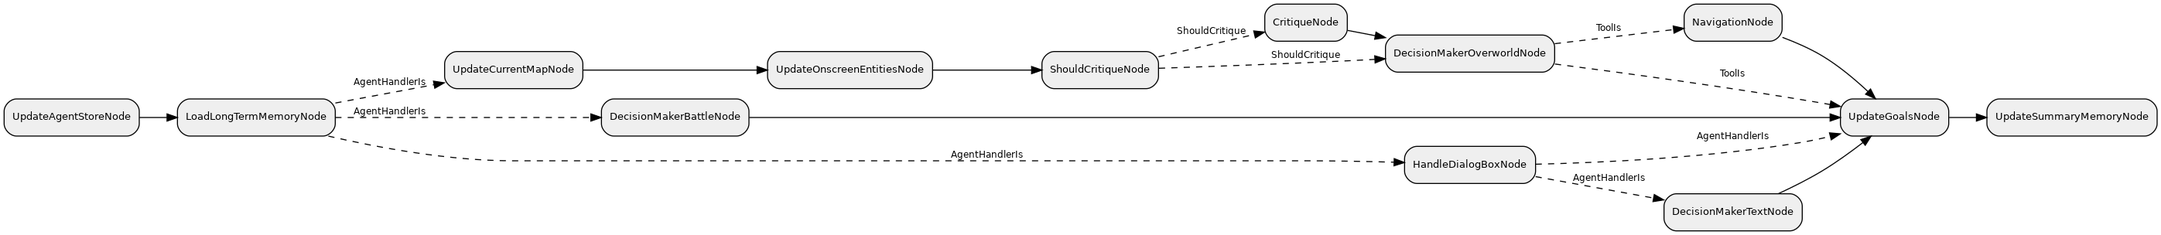
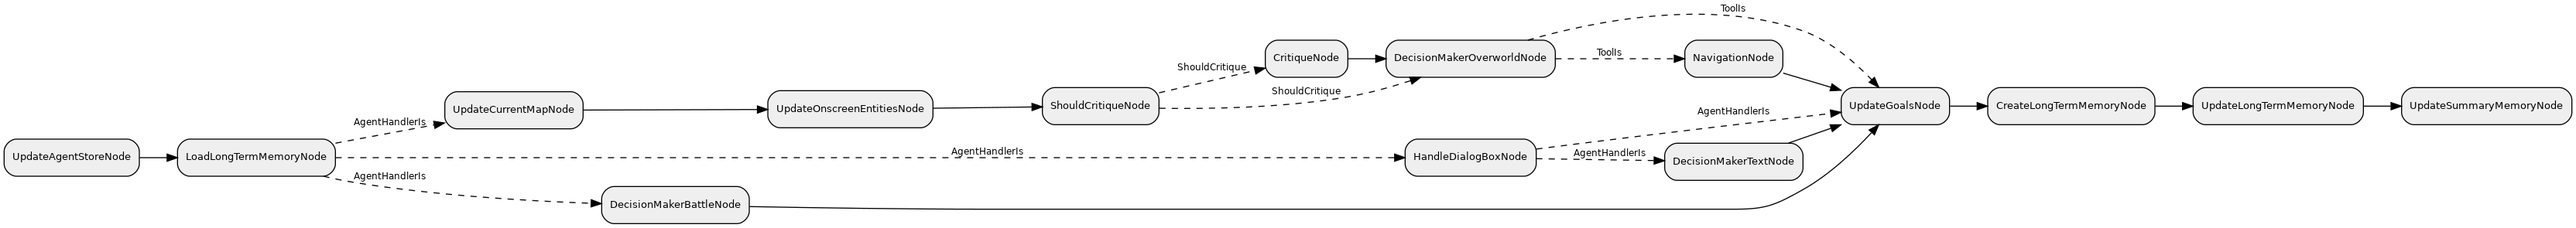
Update LTM node

diff --git a/agent/nodes/update_long_term_memory/service.py b/agent/nodes/update_long_term_memory/service.py
@@ -1,0 +1,77 @@
+from loguru import logger
+
+from agent.nodes.update_long_term_memory.prompts import UPDATE_LONG_TERM_MEMORY_PROMPT
+from agent.nodes.update_long_term_memory.schemas import UpdateLongTermMemoryResponse, UpdateType
+from common.embedding_service import GeminiEmbeddingService
+from common.goals import Goals
+from common.llm_service import GeminiLLMEnum, GeminiLLMService
+from database.long_term_memory.repository import update_long_term_memory
+from database.long_term_memory.schemas import LongTermMemoryUpdate
+from emulator.emulator import YellowLegacyEmulator
+from long_term_memory.schemas import LongTermMemory
+from raw_memory.schemas import RawMemory
+from summary_memory.schemas import SummaryMemory
+
+
+class UpdateLongTermMemoryService:
+    """Service for updating long-term memory."""
+
+    llm_service = GeminiLLMService(GeminiLLMEnum.FLASH)
+    embedding_service = GeminiEmbeddingService()
+
+    def __init__(
+        self,
+        iteration: int,
+        raw_memory: RawMemory,
+        summary_memory: SummaryMemory,
+        long_term_memory: LongTermMemory,
+        goals: Goals,
+        emulator: YellowLegacyEmulator,
+    ) -> None:
+        self.iteration = iteration
+        self.raw_memory = raw_memory
+        self.summary_memory = summary_memory
+        self.long_term_memory = long_term_memory
+        self.goals = goals
+        self.emulator = emulator
+
+    async def update_long_term_memory(self) -> None:
+        """Update long-term memory."""
+        if not self.long_term_memory.pieces:
+            return
+
+        prompt = UPDATE_LONG_TERM_MEMORY_PROMPT.format(
+            raw_memory=self.raw_memory,
+            summary_memory=self.summary_memory,
+            long_term_memory=self.long_term_memory,
+        )
+        try:
+            response = await self.llm_service.get_llm_response_pydantic(
+                prompt,
+                UpdateLongTermMemoryResponse,
+            )
+            title_piece_map = {p.title: p for p in self.long_term_memory.pieces}
+            for update_piece in response.pieces:
+                orig_piece = title_piece_map.get(update_piece.title)
+                if orig_piece is None:
+                    logger.warning(
+                        f"Tried to update non-existent long-term memory piece:"
+                        f" {update_piece.title}. Skipping.",
+                    )
+                    continue
+                if update_piece.update_type == UpdateType.APPEND:
+                    content = f"{orig_piece.content}\n{update_piece.content}"
+                else:
+                    content = update_piece.content
+                embedding = await self.embedding_service.get_embedding(content, update_piece.title)
+                await update_long_term_memory(
+                    LongTermMemoryUpdate(
+                        id=orig_piece.id,
+                        content=content,
+                        importance=update_piece.importance,
+                        iteration=self.iteration,
+                        embedding=embedding,
+                    ),
+                )
+        except Exception as e:  # noqa: BLE001
+            logger.warning(f"Error creating long-term memory. Skipping.\n{e}")

diff --git a/agent/nodes/update_long_term_memory/prompts.py b/agent/nodes/update_long_term_memory/prompts.py
@@ -1,0 +1,20 @@
+UPDATE_LONG_TERM_MEMORY_PROMPT = """
+You are being given the chance to update your currently available long-term memory objects with any new information that you have learned.
+
+{raw_memory}
+
+{summary_memory}
+
+{long_term_memory}
+
+Your response must be in the JSON format described below, with the keys defined as follows:
+- title: The title of the long-term memory object to update, exactly as it appears above.
+- update_type: The type of update to perform on the long-term memory object, either appending your new information to the end of the existing content or rewriting the entire content.
+- content: The content of the long-term memory object to update. If appending, this will be appended to the end of the existing content with a newline. If rewriting, this will replace the existing content entirely, so make sure to include all the information you want to keep.
+- importance: The importance of the long-term memory object to update, on a scale from 1-3, defined as follows:
+  - 3: Critical information that you expect to refer back to often (e.g. battle strategy, a core teammate, a major character, etc.).
+  - 2: Important information that you expect to refer back to occasionally (e.g. a new map, enemy trainers, key-items, etc.). When in doubt, this should be your default importance score.
+  - 1: Information that you don't want to forget, but don't expect to refer back to often (e.g. defeated trainers, Pokemon that you don't expect to use, etc.).
+
+Remember that you do not have to update any long-term memory objects here if you don't have anything to add, meaning an empty list is a perfectly valid response, and you should certainly not update more than one long-term memory object at a time. Each piece of long-term memory is meant to be a document containing polished notes on a specific topic. Do not fill it with useless noise straight from your raw and summary memories. Everything in your long-term memory should be useful to you. When in doubt, don't make any updates.
+"""

diff --git a/agent/graph.py b/agent/graph.py
@@ -13,6 +13,7 @@ from agent.nodes.navigation.node import NavigationNode
 from agent.nodes.should_critique.node import ShouldCritiqueNode
 from agent.nodes.update_current_map.node import UpdateCurrentMapNode
 from agent.nodes.update_goals.node import UpdateGoalsNode
+from agent.nodes.update_long_term_memory.node import UpdateLongTermMemoryNode
 from agent.nodes.update_onscreen_entities.node import UpdateOnscreenEntitiesNode
 from agent.nodes.update_summary_memory.node import UpdateSummaryMemoryNode
 from common.enums import AgentStateHandler, Tool
@@ -35,6 +36,7 @@ def build_agent_graph(emulator: YellowLegacyEmulator) -> Graph:
     update_summary_memory = UpdateSummaryMemoryNode(emulator)
     navigation = NavigationNode(emulator)
     create_long_term_memory = CreateLongTermMemoryNode(emulator)
+    update_long_term_memory = UpdateLongTermMemoryNode(emulator)
 
     return Graph(
         source=update_agent_store,
@@ -119,6 +121,10 @@ def build_agent_graph(emulator: YellowLegacyEmulator) -> Graph:
             ),
             Edge(
                 create_long_term_memory,
+                update_long_term_memory,
+            ),
+            Edge(
+                update_long_term_memory,
                 update_summary_memory,
             ),
         ],

diff --git a/agent/nodes/update_long_term_memory/node.py b/agent/nodes/update_long_term_memory/node.py
@@ -1,0 +1,30 @@
+from junjo import Node
+from loguru import logger
+
+from agent.nodes.update_long_term_memory.service import UpdateLongTermMemoryService
+from agent.state import AgentStore
+from emulator.emulator import YellowLegacyEmulator
+
+
+class UpdateLongTermMemoryNode(Node[AgentStore]):
+    """A node that updates long-term memory."""
+
+    def __init__(self, emulator: YellowLegacyEmulator) -> None:
+        self.emulator = emulator
+        super().__init__()
+
+    async def service(self, store: AgentStore) -> None:
+        """The service for the node."""
+        logger.info("Updating long-term memory...")
+
+        state = await store.get_state()
+
+        service = UpdateLongTermMemoryService(
+            iteration=state.iteration,
+            raw_memory=state.raw_memory,
+            goals=state.goals,
+            emulator=self.emulator,
+            summary_memory=state.summary_memory,
+            long_term_memory=state.long_term_memory,
+        )
+        await service.update_long_term_memory()

diff --git a/agent/nodes/update_long_term_memory/schemas.py b/agent/nodes/update_long_term_memory/schemas.py
@@ -1,0 +1,25 @@
+from enum import StrEnum
+
+from pydantic import BaseModel, Field
+
+
+class UpdateType(StrEnum):
+    """The type of update to perform on a long-term memory object."""
+
+    APPEND = "append"
+    REWRITE = "rewrite"
+
+
+class _UpdateLongTermMemoryResponsePiece(BaseModel):
+    """A piece of long-term memory to be created."""
+
+    title: str
+    update_type: UpdateType
+    content: str
+    importance: int = Field(ge=1, le=3)
+
+
+class UpdateLongTermMemoryResponse(BaseModel):
+    """The response from the update long-term memory prompt."""
+
+    pieces: list[_UpdateLongTermMemoryResponsePiece]
